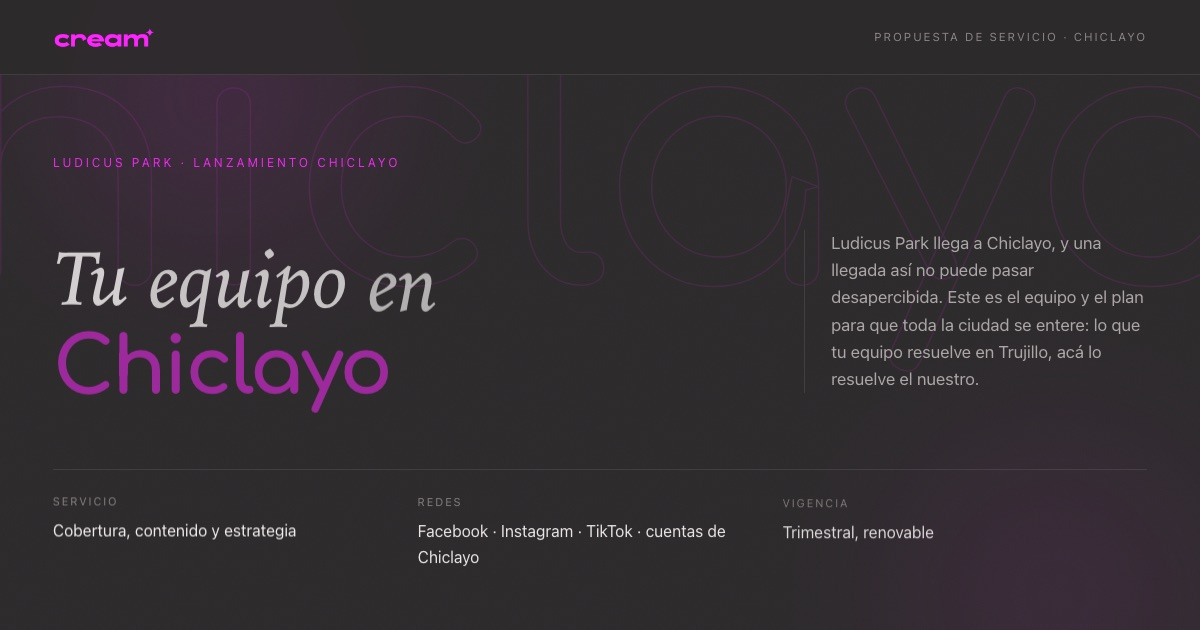
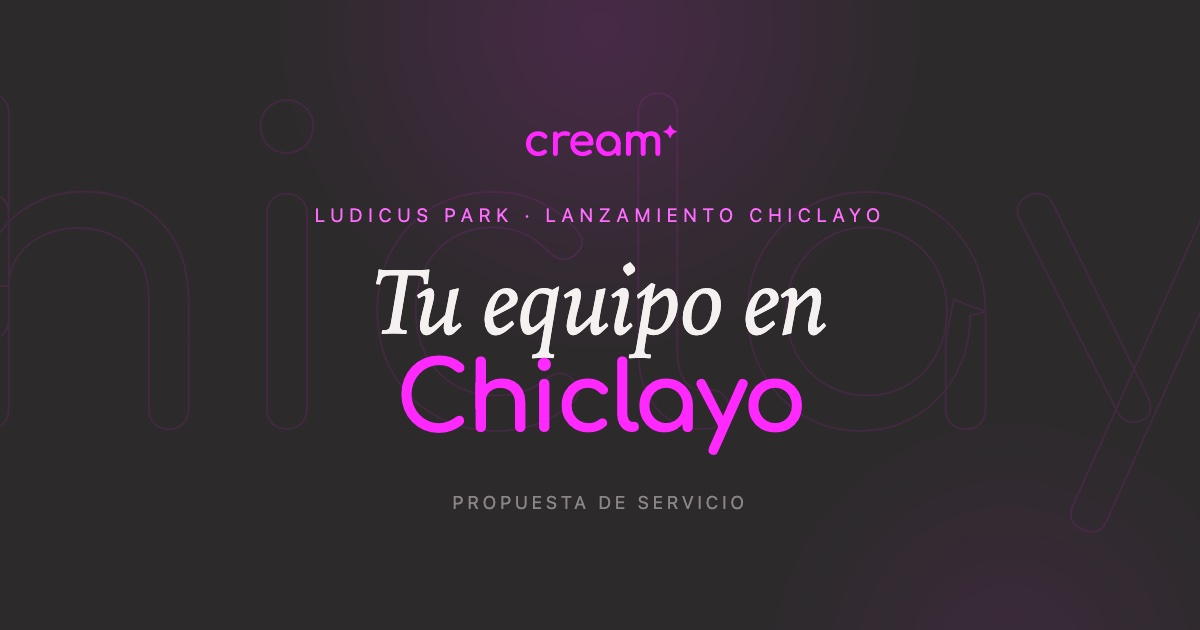
og:image centrada para el preview de WhatsApp (Ludicus Park)

diff --git a/ludicuspark/assets/og.html b/ludicuspark/assets/og.html
@@ -1,0 +1,56 @@
+<!doctype html>
+<!-- Fuente del og.jpg de Ludicus Park. Se captura a 1200x630 con Chrome
+     headless y se convierte a JPG (ver LEER-PRIMERO.md).
+     REGLA: composicion CENTRADA — WhatsApp recorta los lados (y en el
+     thumbnail chico recorta casi a cuadrado), asi que todo lo esencial debe
+     vivir en el centro (~630px centrales). -->
+<html lang="es-PE">
+<head>
+<meta charset="utf-8">
+<style>
+@font-face{
+  font-family:Cream; font-style:normal; font-weight:300 700;
+  src:url("../../assets/cream.woff2") format("woff2");
+}
+*{margin:0; box-sizing:border-box}
+html,body{width:1200px; height:630px; overflow:hidden}
+body{
+  background:#2c2a2b; color:#f4f1f1; position:relative;
+  font-family:system-ui,-apple-system,"Segoe UI",Roboto,sans-serif;
+  display:flex; flex-direction:column; align-items:center; justify-content:center;
+  text-align:center; gap:0;
+}
+/* aura centrada, como la de la pagina */
+.aura{position:absolute; inset:0; pointer-events:none}
+.aura b{position:absolute; display:block; border-radius:50%; filter:blur(30px)}
+.aura b:nth-child(1){width:900px; height:900px; left:150px; top:-420px;
+  background:radial-gradient(closest-side,rgba(255,41,255,.14),transparent 72%)}
+.aura b:nth-child(2){width:700px; height:700px; right:-160px; bottom:-380px;
+  background:radial-gradient(closest-side,rgba(255,41,255,.08),transparent 72%)}
+/* tipografia fantasma detras, centrada */
+.fantasma{position:absolute; left:50%; top:46%; transform:translate(-50%,-50%);
+  font-family:Cream,sans-serif; font-weight:600; font-size:430px; line-height:1;
+  color:transparent; -webkit-text-stroke:2px rgba(255,41,255,.10); white-space:nowrap}
+.logo{font-family:Cream,sans-serif; font-weight:700; font-size:44px; color:#ff29ff;
+  letter-spacing:-.02em; position:relative}
+.logo .est{font-size:.42em; vertical-align:.95em}
+.eyebrow{margin-top:38px; font-size:19px; letter-spacing:.3em; text-transform:uppercase;
+  color:#ff6bff; position:relative}
+h1{margin-top:22px; position:relative; font-weight:400; line-height:1.04; font-size:96px}
+h1 .voz{font-family:"Iowan Old Style","Palatino Linotype",Palatino,Georgia,serif;
+  font-style:italic; letter-spacing:-.008em}
+h1 .marca{display:block; font-family:Cream,sans-serif; font-weight:700; color:#ff29ff;
+  letter-spacing:-.03em}
+.pie{margin-top:42px; font-size:18px; letter-spacing:.22em; text-transform:uppercase;
+  color:#8b8586; position:relative}
+</style>
+</head>
+<body>
+<div class="aura"><b></b><b></b></div>
+<span class="fantasma">chiclayo</span>
+<div class="logo">cream<span class="est">&#10022;</span></div>
+<div class="eyebrow">Ludicus Park &middot; Lanzamiento Chiclayo</div>
+<h1><span class="voz">Tu equipo en</span> <span class="marca">Chiclayo</span></h1>
+<div class="pie">Propuesta de servicio</div>
+</body>
+</html>

diff --git a/ludicuspark/index.html b/ludicuspark/index.html
@@ -10,7 +10,7 @@
 <meta name="robots" content="noindex, nofollow">
 <meta property="og:type" content="website">
 <meta property="og:url" content="https://cream.pe/ludicuspark/">
-<meta property="og:image" content="https://cream.pe/ludicuspark/assets/og.jpg">
+<meta property="og:image" content="https://cream.pe/ludicuspark/assets/og.jpg?v=2">
 <meta property="og:image:width" content="1200">
 <meta property="og:image:height" content="630">
 <meta property="og:title" content="Ludicus Park &middot; Tu equipo en Chiclayo">
